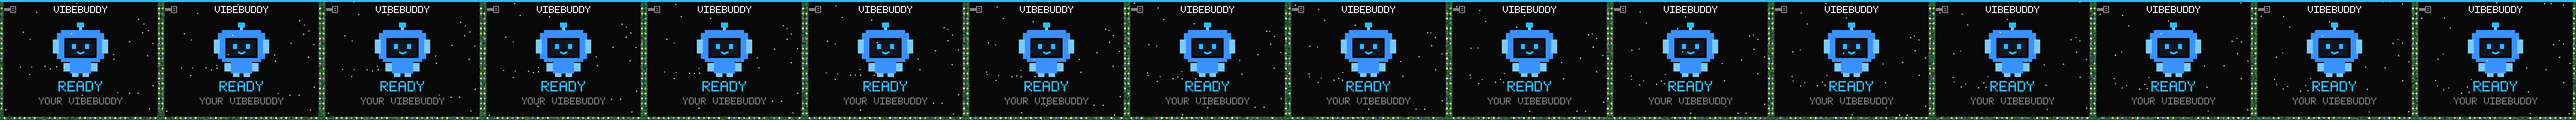
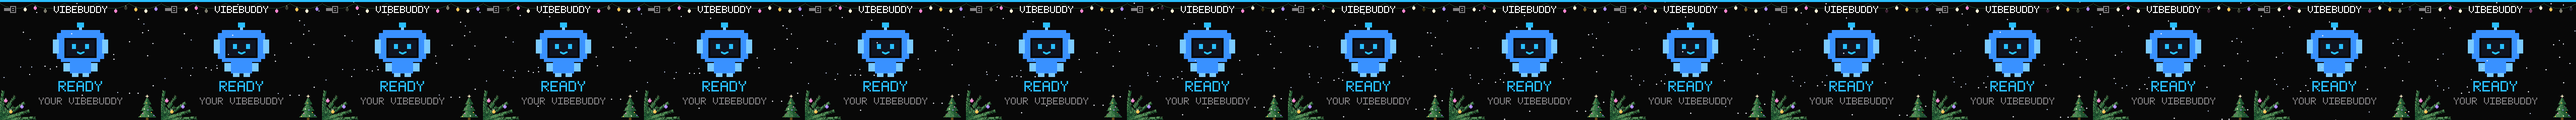
Christmas decoration: lights hang from the top, pine and a tree below
The garland round the edge sat against the state colour along the top
and broke wherever content came near the sides. Now:

- Strings of lights hang in swags just under the state colour, with
  bigger bulbs (6 x 7, with a socket and a shine while lit).
- Pine boughs with three baubles fan out of the bottom left corner.
- A small tree with a star and twinkling bulbs stands in the bottom
  right corner, on every screen.

The pine is drawn a pixel at a time, only on its corner's ground colour
and a pixel clear of anything else. So text, cards and key caps sit on
top of it with a pixel of ground around them, and the pine never fills
the inside of a card.

Changed region(s): [[0.0, 0.8167, 1.0, 1.0], [0.0, 0.0583, 1.0, 0.0875]]

diff --git a/firmware-rs/core/src/decoration.rs b/firmware-rs/core/src/decoration.rs
@@ -1,13 +1,15 @@
 //! Decorations (ADR-0022): a seasonal layer drawn over whichever box screens the box uses, after the screen and
 //! before the dimming, the menu and the tap outline. Only things that don't depend on the layout, so one drawing
 //! works on every set of screens. Each one is named for its holiday: Thanksgiving is falling leaves with an acorn
-//! here and there, and Christmas is lights on a pine garland down the sides and along the bottom with snow
-//! falling inside it. The garland leaves the top edge alone, where it would sit against the state colour.
+//! here and there, and Christmas is strings of lights hanging in swags across the top, pine boughs with baubles in
+//! the bottom left corner, a small tree in the bottom right, and snow falling.
 //!
 //! Every flake, leaf and bulb is a function of time alone, so a frame drawn at any moment is right and the
 //! screens' own animation pace doesn't matter. Nothing is drawn in the top rows, where both sets show the state
-//! colour, and nothing uses a state colour. A flake, leaf, acorn or bulb that would touch text, an edge or an icon isn't
-//! drawn in that frame, so it seems to pass behind it and the text stays whole, on any layout.
+//! colour, and nothing uses a state colour. A flake, leaf, acorn or bulb that would touch text, an edge or an icon
+//! isn't drawn in that frame, so it seems to pass behind it and the text stays whole, on any layout. The pine is
+//! drawn a pixel at a time on its corner's ground only, so text and cards sit on top of it with a pixel of ground
+//! around them.
 
 use crate::canvas::{Canvas, HEIGHT, WIDTH, half_bright};
 
@@ -90,20 +92,45 @@ const ACORN_NUT_COLOR: u16 = 0xd54d;
 /// the screens use for state.
 const BULB_COLORS: [u16; 4] = [0xff9a, 0xf60a, 0xff9a, 0xf60a];
 const BULB_ACCENTS: [u16; 2] = [0xf419, 0xac5f];
-/// The pine garland the bulbs hang on: a band this deep along each edge (under the state colour at the top), its
-/// needles dark, mid and light pine, its outer and inner rows ragged. Pine, far from the done green.
-const GARLAND: i32 = 7;
-const NEEDLES: [u16; 3] = [0x1a25, 0x2b27, 0x4c4a];
-/// The bulbs hang along the middle of the garland.
-const WIRE_INSET: i32 = GARLAND / 2;
-/// A bulb every this many pixels along the garland, 4 × 4 with its corners off, centred on it.
-const BULB_SPACING: i32 = 10;
-const BULB_SIZE: i32 = 4;
-/// More than there are bulbs around the screen.
-const MAX_BULBS: usize = 120;
+/// The light strings hang in swags from just under the state colour: a hook every `SWAG_PERIOD` pixels, sagging
+/// `SWAG_SAG` between them, on a wire of light pine.
+const SWAG_TOP: i32 = TOP + 2;
+const SWAG_PERIOD: i32 = 64;
+const SWAG_SAG: i32 = 10;
+/// A bulb every this many pixels across, hanging from a socket just under the wire: `BULB` is its shape, 6 wide.
+const BULB_SPACING: i32 = 20;
+const BULB_SIZE: i32 = 6;
+const BULB: [u8; 7] = [0b011110, 0b111111, 0b111111, 0b111111, 0b111111, 0b011110, 0b001100];
+/// More than there are bulbs across the screen.
+const MAX_BULBS: usize = 24;
 /// Each bulb steps through this many twinkle phases, one every `TWINKLE_MS`: dark in one, dim in one, lit in the rest.
 const TWINKLE_PHASES: u64 = 8;
 const TWINKLE_MS: u64 = 350;
+/// Pine boughs in the two bottom corners: needles from dark to light pine, far from the done green, on a dark
+/// brown twig. The lighter two are the upper side of a bough, where the light falls.
+const NEEDLES: [u16; 4] = [0x1a25, 0x2b27, 0x4c4a, 0x5c6b];
+const TWIG: u16 = 0x4163;
+/// The boughs of the bottom left corner, each from just off the corner to (x, y), with y up from the bottom edge.
+/// The right corner is the same, mirrored.
+const BOUGHS: [(i32, i32); 8] = [(70, 4), (58, 18), (40, 10), (48, 34), (26, 26), (30, 48), (10, 40), (6, 58)];
+/// The longest needles, at the base of a bough; they get shorter towards its tip.
+const NEEDLE_LENGTH: i32 = 6;
+/// Baubles hung in each corner's boughs, 7 × 7 and round, where (x, y) is their bottom left from the bottom left
+/// corner.
+const BAUBLES: [(i32, i32); 3] = [(18, 12), (40, 22), (8, 34)];
+const BAUBLE: [u8; 7] = [0b0011100, 0b0111110, 0b1111111, 0b1111111, 0b1111111, 0b0111110, 0b0011100];
+const BAUBLE_SIZE: i32 = 7;
+const BAUBLE_CAP: u16 = 0x8c71;
+/// A small Christmas tree in the bottom right corner: three tiers of pine over a brown trunk, a warm white star on
+/// top and bulbs on it. Its foliage is `TREE_FOLIAGE` rows high, its centre `TREE_INSET` from the right edge.
+const TREE_TIER: i32 = 13;
+const TREE_FOLIAGE: i32 = 3 * TREE_TIER;
+const TREE_TRUNK: i32 = 5;
+const TREE_INSET: i32 = 28;
+const TREE_STAR: i32 = 7;
+const TRUNK: u16 = 0x6243;
+/// Where the tree's bulbs are, from the top of the foliage and its centre line.
+const TREE_BULBS: [(i32, i32); 9] = [(9, -2), (17, 4), (21, -6), (23, 1), (28, 8), (30, -9), (35, 2), (34, 13), (36, -14)];
 
 /// A spread of bits from a flake's number, so flakes don't line up.
 fn mix(index: u32, salt: u32) -> u32 {
@@ -152,72 +179,210 @@ fn plain(canvas: &Canvas, x: i32, y: i32, width: i32, height: i32) -> bool {
     true
 }
 
-/// The line the bulbs hang along, down the middle of the garland: top and bottom rows, left and right columns.
-const WIRE_TOP: i32 = TOP + WIRE_INSET;
-const WIRE_BOTTOM: i32 = HEIGHT - 1 - WIRE_INSET;
-const WIRE_LEFT: i32 = WIRE_INSET;
-const WIRE_RIGHT: i32 = WIDTH - 1 - WIRE_INSET;
-
-/// The centres of the bulbs: down the right, along the bottom and up the left. None along the top, where they would
-/// sit against the state colour.
-fn bulbs() -> impl Iterator<Item = (i32, i32)> {
-    let across = (0..).map(|step| WIRE_LEFT + 6 + step * BULB_SPACING).take_while(|x| *x <= WIRE_RIGHT - 6);
-    let down = (1..).map(|step| WIRE_TOP + step * BULB_SPACING).take_while(|y| *y <= WIRE_BOTTOM - 6);
-    down.clone().map(|y| (WIRE_RIGHT, y)).chain(across.map(|x| (x, WIRE_BOTTOM))).chain(down.map(|y| (WIRE_LEFT, y)))
+/// How far down the light string is at `x`: at the hooks it is just under the state colour, and it sags between.
+fn swag_y(x: i32) -> i32 {
+    let u = 2 * (x.rem_euclid(SWAG_PERIOD)) - SWAG_PERIOD;
+    SWAG_TOP + SWAG_SAG - SWAG_SAG * u * u / (SWAG_PERIOD * SWAG_PERIOD)
 }
 
-/// One cross-section of the garland, `GARLAND` pixels from `(x, y)` one step of `(dx, dy)` at a time, from the edge
-/// inwards. It is left out where anything but plain ground is under it or right beside its inner edge, so text
-/// and icons near the edge stay whole.
-fn garland_slice(canvas: &mut Canvas, x: i32, y: i32, dx: i32, dy: i32, along: i32) {
-    let at = |step: i32| canvas.pixel(((y + dy * step) * WIDTH + x + dx * step) as usize);
-    let ground = at(0);
-    if (1..=GARLAND).any(|step| at(step) != ground) {
+/// The centres of the bulbs, each just under the wire.
+fn bulbs() -> impl Iterator<Item = (i32, i32)> {
+    (0..).map(|step| BULB_SPACING / 2 + step * BULB_SPACING).take_while(|x| *x < WIDTH - BULB_SIZE).map(|x| (x, swag_y(x) + 3))
+}
+
+/// The light string's wire, a pixel wide, left out where it would touch anything but plain ground.
+fn wire(canvas: &mut Canvas) {
+    for x in 0..WIDTH {
+        let y = swag_y(x);
+        if plain(canvas, x, y, 1, 1) {
+            dot(canvas, x, y, 1, 1, NEEDLES[2]);
+        }
+    }
+}
+
+fn pine(color: u16) -> bool {
+    color == TWIG || color == TRUNK || NEEDLES.contains(&color)
+}
+
+/// One pixel of pine, drawn only where it and the pixels around it are the corner's `ground` or pine already. So the
+/// pine grows behind text, cards and icons, and keeps a pixel of ground around them: text on the tree stays whole
+/// and readable, and the pine never fills the inside of a card or a key cap.
+fn needle_dot(canvas: &mut Canvas, ground: u16, x: i32, y: i32, color: u16) {
+    if !(0..WIDTH).contains(&x) || !(TOP..HEIGHT).contains(&y) {
         return;
     }
-    for depth in 0..GARLAND {
-        let bits = mix(along as u32 * 16 + depth as u32, 0x917e);
-        // Ragged at both edges, so it reads as needles rather than a stripe.
-        if (depth == 0 || depth == GARLAND - 1) && bits & 1 == 0 {
-            continue;
-        }
-        let color = NEEDLES[(bits >> 4) as usize % NEEDLES.len()];
-        dot(canvas, x + dx * depth, y + dy * depth, 1, 1, color);
+    if on_ground(canvas, ground, x, y, 1, 1) {
+        dot(canvas, x, y, 1, 1, color);
     }
 }
 
-/// Down both sides from just under the state colour, and along the bottom.
-fn garland(canvas: &mut Canvas) {
-    for x in 0..WIDTH {
-        garland_slice(canvas, x, HEIGHT - 1, 0, -1, x + WIDTH);
+/// Whether the box from (x, y), `width` by `height`, and a pixel around it, is all `ground` or pine.
+fn on_ground(canvas: &Canvas, ground: u16, x: i32, y: i32, width: i32, height: i32) -> bool {
+    for row in (y - 1).max(TOP)..(y + height + 1).min(HEIGHT) {
+        for column in (x - 1).max(0)..(x + width + 1).min(WIDTH) {
+            let color = canvas.pixel((row * WIDTH + column) as usize);
+            if color != ground && !pine(color) {
+                return false;
+            }
+        }
     }
-    for y in TOP..HEIGHT - GARLAND {
-        garland_slice(canvas, 0, y, 1, 0, y + 2 * WIDTH);
-        garland_slice(canvas, WIDTH - 1, y, -1, 0, y + 3 * WIDTH);
+    true
+}
+
+/// A straight line of pine from (x0, y0) to (x1, y1).
+fn needle_line(canvas: &mut Canvas, ground: u16, (x0, y0): (i32, i32), (x1, y1): (i32, i32), color: u16) {
+    let steps = (x1 - x0).abs().max((y1 - y0).abs()).max(1);
+    for step in 0..=steps {
+        needle_dot(canvas, ground, x0 + (x1 - x0) * step / steps, y0 + (y1 - y0) * step / steps, color);
+    }
+}
+
+/// The square root, rounded down, for a bough's length.
+fn root(value: i32) -> i32 {
+    let mut root = 0;
+    while (root + 1) * (root + 1) <= value {
+        root += 1;
+    }
+    root
+}
+
+/// The boughs and baubles of the bottom left corner, on its `ground`.
+fn corner(canvas: &mut Canvas, ground: u16) {
+    let place = |x: i32, y: i32| (x, HEIGHT - 1 - y);
+    let baubles = [BULB_COLORS[1], BULB_ACCENTS[1], BULB_ACCENTS[0]];
+    let origin = (-3, -2);
+    for (index, (end_x, end_y)) in BOUGHS.into_iter().enumerate() {
+        let (dx, dy) = (end_x - origin.0, end_y - origin.1);
+        let length = root(dx * dx + dy * dy);
+        // Along the bough and across it, in 1/256ths of a pixel.
+        let (ux, uy) = (dx * 256 / length, dy * 256 / length);
+        needle_line(canvas, ground, place(origin.0, origin.1), place(end_x, end_y), TWIG);
+        for along in 0..length {
+            let (x, y) = (origin.0 + dx * along / length, origin.1 + dy * along / length);
+            let reach = 3 + (NEEDLE_LENGTH - 3) * (length - along) / length;
+            for side in [-1, 1] {
+                let bits = mix(index as u32 * 512 + along as u32 * 2 + (side + 1) as u32 / 2, 0x917e);
+                if bits.is_multiple_of(5) {
+                    continue;
+                }
+                // Swept towards the tip, as pine needles grow.
+                let tip_x = x + (ux * 6 / 10 - side * uy) * reach / 256;
+                let tip_y = y + (uy * 6 / 10 + side * ux) * reach / 256;
+                // Lighter on the upper side, where the light falls.
+                let shade = if side * ux > 0 { 2 + (bits >> 3) as usize % 2 } else { (bits >> 3) as usize % 2 };
+                needle_line(canvas, ground, place(x, y), place(tip_x, tip_y), NEEDLES[shade]);
+            }
+        }
+    }
+    for ((x, y), color) in BAUBLES.into_iter().zip(baubles) {
+        let (left, top) = place(x, y + BAUBLE_SIZE);
+        let left = left.min(place(x + BAUBLE_SIZE - 1, y).0);
+        if !on_ground(canvas, ground, left, top - 2, BAUBLE_SIZE, BAUBLE_SIZE + 2) {
+            continue;
+        }
+        // The cap, a shine at the upper left, and the ball.
+        dot(canvas, left + 2, top - 2, 3, 2, BAUBLE_CAP);
+        for (row, line) in BAUBLE.iter().enumerate() {
+            for column in 0..BAUBLE_SIZE {
+                if line & (1 << (BAUBLE_SIZE - 1 - column)) != 0 {
+                    let shine = (row == 1 || row == 2) && column == 2;
+                    dot(canvas, left + column, top + row as i32, 1, 1, if shine { 0xffff } else { color });
+                }
+            }
+        }
+    }
+}
+
+/// How far the tree's foliage reaches either side of its centre, `row` rows from its top: each tier starts narrow
+/// and spreads, and each is wider than the one above.
+fn tree_reach(row: i32) -> i32 {
+    let tier = row / TREE_TIER;
+    let local = row % TREE_TIER;
+    2 + tier * 3 + local * (6 + tier * 2) / (TREE_TIER - 1)
+}
+
+/// The tree in the bottom right corner, on its `ground`.
+fn tree(canvas: &mut Canvas, ground: u16, t_ms: u64) {
+    let centre = WIDTH - TREE_INSET;
+    let top = HEIGHT - TREE_TRUNK - TREE_FOLIAGE;
+    for row in 0..TREE_FOLIAGE {
+        let reach = tree_reach(row);
+        for offset in -reach..=reach {
+            let bits = mix((row * 64 + offset + 32) as u32, 0x7ee5);
+            // Ragged at the edges, so it reads as needles.
+            if offset.abs() == reach && bits & 1 == 0 {
+                continue;
+            }
+            // Lighter on the left, where the light falls, darker on the right and along the bottom of each tier.
+            let light = if row % TREE_TIER == TREE_TIER - 1 {
+                0
+            } else if offset < -reach / 3 {
+                2
+            } else if offset < reach / 3 {
+                1
+            } else {
+                0
+            };
+            let shade = (light + (bits >> 3) as usize % 2).min(NEEDLES.len() - 1);
+            needle_dot(canvas, ground, centre + offset, top + row, NEEDLES[shade]);
+        }
+    }
+    for row in 0..TREE_TRUNK {
+        needle_line(canvas, ground, (centre - 2, top + TREE_FOLIAGE + row), (centre + 2, top + TREE_FOLIAGE + row), TRUNK);
+    }
+    // The star, on the top: a plus with a fuller middle and a gold heart. It and the bulbs are left out where they
+    // would touch anything but the ground and the tree.
+    let star = top - TREE_STAR;
+    let middle = star + TREE_STAR / 2;
+    if on_ground(canvas, ground, centre - TREE_STAR / 2, star, TREE_STAR, TREE_STAR) {
+        dot(canvas, centre, star, 1, TREE_STAR, BULB_COLORS[0]);
+        dot(canvas, centre - TREE_STAR / 2, middle, TREE_STAR, 1, BULB_COLORS[0]);
+        dot(canvas, centre - 1, middle - 1, 3, 3, BULB_COLORS[0]);
+        dot(canvas, centre, middle, 1, 1, BULB_COLORS[1]);
+    }
+    for (index, (row, offset)) in TREE_BULBS.into_iter().enumerate() {
+        let lit = [BULB_COLORS[1], BULB_ACCENTS[0], BULB_COLORS[0], BULB_ACCENTS[1]][index % 4];
+        let color = if (t_ms / TWINKLE_MS + mix(index as u32, 0x7b01) as u64).is_multiple_of(3) { half_bright(lit) } else { lit };
+        if on_ground(canvas, ground, centre + offset, top + row, 2, 2) {
+            dot(canvas, centre + offset, top + row, 2, 2, color);
+        }
     }
 }
 
 fn lights(canvas: &mut Canvas, t_ms: u64) {
-    // Which bulbs have room, judged on the screen before the garland goes on.
+    // Which bulbs have room, judged on the screen before anything goes on.
     let mut room = [false; MAX_BULBS];
     for (index, (x, y)) in bulbs().enumerate().take(MAX_BULBS) {
-        room[index] = plain(canvas, x - BULB_SIZE / 2, y - BULB_SIZE / 2, BULB_SIZE, BULB_SIZE);
+        room[index] = plain(canvas, x - BULB_SIZE / 2, y - 2, BULB_SIZE, BULB.len() as i32 + 2);
     }
-    garland(canvas);
+    // Each corner's ground is the screen's colour a pixel in from it.
+    let left_ground = canvas.pixel(((HEIGHT - 2) * WIDTH + 1) as usize);
+    let right_ground = canvas.pixel(((HEIGHT - 2) * WIDTH + WIDTH - 2) as usize);
+    corner(canvas, left_ground);
+    tree(canvas, right_ground, t_ms);
+    wire(canvas);
     for (index, (x, y)) in bulbs().enumerate().take(MAX_BULBS) {
         if !room[index] {
             continue;
         }
-        let color = if index % 4 == 3 { BULB_ACCENTS[(index / 4) % BULB_ACCENTS.len()] } else { BULB_COLORS[index % BULB_COLORS.len()] };
-        // Off is a dark bulb still on the garland; dim is half way.
+        let lit = if index % 4 == 3 { BULB_ACCENTS[(index / 4) % BULB_ACCENTS.len()] } else { BULB_COLORS[index % BULB_COLORS.len()] };
+        // Off is a dark bulb still on the string; dim is half way.
         let color = match (t_ms / TWINKLE_MS + mix(index as u32, 0x11e5) as u64) % TWINKLE_PHASES {
-            0 => half_bright(half_bright(color)),
-            1 => half_bright(color),
-            _ => color,
+            0 => half_bright(half_bright(lit)),
+            1 => half_bright(lit),
+            _ => lit,
         };
-        let (left, top) = (x - BULB_SIZE / 2, y - BULB_SIZE / 2);
-        dot(canvas, left + 1, top, BULB_SIZE - 2, BULB_SIZE, color);
-        dot(canvas, left, top + 1, BULB_SIZE, BULB_SIZE - 2, color);
+        // `y` is the bulb's top: the socket above it, then the bulb with a shine while it is lit.
+        let left = x - BULB_SIZE / 2;
+        dot(canvas, left + 2, y - 2, 2, 2, BAUBLE_CAP);
+        for (row, line) in BULB.iter().enumerate() {
+            for column in 0..BULB_SIZE {
+                if line & (1 << (BULB_SIZE - 1 - column)) != 0 {
+                    let shine = row == 1 && column == 1 && color == lit;
+                    dot(canvas, left + column, y + row as i32, 1, 1, if shine { 0xffff } else { color });
+                }
+            }
+        }
     }
 }
 
@@ -285,7 +450,7 @@ pub fn draw(canvas: &mut Canvas, decoration: Decoration, t_ms: u32) {
     match decoration {
         Decoration::Off => {}
         Decoration::Thanksgiving => leaves(canvas, t_ms),
-        // The garland first, so the snow falls behind it: a flake only lands on plain ground.
+        // The lights and boughs first, so the snow falls behind them: a flake only lands on plain ground.
         Decoration::Christmas => {
             lights(canvas, t_ms);
             snow(canvas, t_ms);
@@ -339,7 +504,7 @@ mod tests {
     }
 
     #[test]
-    fn christmas_has_snow_inside_the_garland_and_thanksgiving_has_acorns_among_the_leaves() {
+    fn christmas_has_lights_boughs_and_snow_and_thanksgiving_has_acorns_among_the_leaves() {
         // Whether `color` is anywhere at least `inside` pixels in from the edges, under the state colour's rows.
         let has = |frame: &[u8], color: u16, inside: i32| {
             (TOP + inside..HEIGHT - inside).any(|y| {
@@ -350,8 +515,9 @@ mod tests {
             })
         };
         let christmas = drawn(Decoration::Christmas, 61_000);
-        assert!(has(&christmas, NEEDLES[0], 0) || has(&christmas, NEEDLES[1], 0), "the garland is there");
-        assert!(has(&christmas, SNOW, GARLAND) || has(&christmas, SNOW_SHADE, GARLAND), "and snow falls inside it");
+        assert!(has(&christmas, NEEDLES[0], 0) || has(&christmas, NEEDLES[1], 0), "the boughs are there");
+        assert!(has(&christmas, BULB_COLORS[0], 0) || has(&christmas, BULB_COLORS[1], 0), "and the lights");
+        assert!(has(&christmas, SNOW, 0) || has(&christmas, SNOW_SHADE, 0), "and the snow");
         let thanksgiving = drawn(Decoration::Thanksgiving, 61_000);
         assert!(has(&thanksgiving, ACORN_CAP_COLOR, 0), "an acorn falls among the leaves");
     }

diff --git a/docs/adr/0022-decorations-are-one-overlay-for-every-set-of-box-screens.md b/docs/adr/0022-decorations-are-one-overlay-for-every-set-of-box-screens.md
@@ -8,9 +8,9 @@ On 2026-11-04 Michael asked for holiday themes the App writes to the box: backgr
 
 So a decoration is a third thing beside the Character and the box screens, and it uses only what doesn't depend on the layout:
 
-- **Kinds.** Things that fall or drift over the whole screen (snow, leaves) and things that run along its edges (lights on a pine garland). Nothing that sits at a place a layout gives meaning to: no hats on the buddy, no new backgrounds, no recoloured cards.
+- **Kinds.** Things that fall or drift over the whole screen (snow, leaves) things that hang along its top edge (strings of lights), and things that grow from its bottom corners (pine boughs, a small tree). Nothing that sits at a place a layout gives meaning to: no hats on the buddy, no new backgrounds, no recoloured cards.
 - **One drawing for every set of box screens.** The box draws the decoration over the finished 320×240 frame, whichever set drew it, before the night dimming, the menu and the tap outline (`decoration.rs`). Both sets render a full frame and flush it whole (`canvas.rs`, `lcd.rs`), so there is one place to add it. A new set of box screens gets every decoration for free.
-- **It never hides what the screen means.** It leaves the top 4 rows alone, where both sets draw the state colour (4 rows on the robot screens, 3 on korekore). It doesn't use the state colours (ready blue, working orange, needs input yellow, done green, failed red) as a main colour, since korekore fills the whole screen with some of them: Christmas lights are warm white and gold with every fourth bulb pink or violet, not red and green bulbs, on a garland of dark pine greens far from the done green. A flake, leaf, acorn, bulb or stretch of garland that would touch anything but plain ground (text, an edge, an icon) isn't drawn in that frame, so it seems to pass behind it and text stays whole; this looks at the pixels, not at either layout. While the box needs input, it stops moving, so the only motion on the screen is the buddy asking.
+- **It never hides what the screen means.** It leaves the top 4 rows alone, where both sets draw the state colour (4 rows on the robot screens, 3 on korekore). It doesn't use the state colours (ready blue, working orange, needs input yellow, done green, failed red) as a main colour, since korekore fills the whole screen with some of them: Christmas lights are warm white and gold with every fourth bulb pink or violet, not red and green bulbs, and the pine is dark pine greens far from the done green. A flake, leaf, acorn or bulb that would touch anything but plain ground (text, an edge, an icon) isn't drawn in that frame, so it seems to pass behind it and text stays whole. The pine is drawn a pixel at a time, only on its corner's ground colour and a pixel clear of anything else, so text, cards and key caps sit on top of it with a pixel of ground around them, and it never fills the inside of a card. Both look at the pixels, not at either layout. While the box needs input, it stops moving, so the only motion on the screen is the buddy asking.
 - **In the firmware, picked by a command.** Like the box screens, each decoration is compiled in and switched over the link, and the box keeps the choice across restarts. Off is the default. Turning one on doesn't write the Character pack or flash anything.
 - **Named for a holiday, but not tied to a Character or a date.** Pip with no Christmas decoration and the robot with one are both fine. The App doesn't turn a decoration on by the calendar; the user picks it, as with a Character.
 
@@ -26,5 +26,5 @@ So a decoration is a third thing beside the Character and the box screens, and i
 - The firmware gets a decoration step after each set's frame, a `device.decoration` command and a `DECORATION` line, the way `device.screens` works (docs/protocol.md). The settings record has no free word, so the decoration takes the second byte of the screens word; firmware from before it reads a decorated korekore record as the robot's, which only matters after a rollback. The robot and korekore pixels stay the same with the decoration off. `cargo run -p vibebuddy-firmware-core --example decoration_preview -- <dir>` draws each decoration on both sets.
 - A moving decoration redraws the frame every 150 ms between the screens' own frames, without speeding up the buddy's animation. The rate is checked on the box. It holds still while the menu is up, while the box needs input, and while the screen is dimmed for the night.
 - The Mac app and the Linux app both get a decoration strip on the Character page, right under the volume so a long list of Characters doesn't push it out of sight: one preview, playing frames the firmware itself drew (`tools/decoration-previews.sh` into `decorations/`, so the apps never redraw a decoration of their own), and a button for each decoration. It is off while the box is away or runs firmware that doesn't report a decoration, with zh-Hans strings on both sides. It was first on the Device page, beside the box screens; on 2026-11-05 it moved, since people look for a holiday look where they pick the Character.
-- The first decorations are Thanksgiving (falling autumn leaves with an acorn here and there, for 2026-11-26) and Christmas (lights on the pine garland, with snow falling inside it). Both ship in one firmware release and one App release about a week before Thanksgiving, and that App release also carries Tom and Pip.
-- On 2026-11-06, before any of it shipped, the three decorations Leaves, Snow and Lights became these two, one for each holiday: people pick a holiday, not an effect, and lights alone were for December only. The Christmas one draws the garland first, so a flake falls behind it, and the garland no longer runs along the top edge: there it sat right against the state colour and read as part of it. Thanksgiving got acorns rather than pumpkins: acorns fall, and a pumpkin's orange is too near the working orange. Snow on its own for the rest of the winter is gone for now. Holidays differ by country: Thanksgiving means little outside the US and Canada, so other holidays, such as Lunar New Year, come as decorations of their own. The settings record keeps codes 1 and 2 for the two; 3, which only test boxes stored, reads as off.
+- The first decorations are Thanksgiving (falling autumn leaves with an acorn here and there, for 2026-11-26) and Christmas (strings of lights hanging in swags across the top, pine boughs with baubles in the bottom left corner, a small tree with a star in the bottom right, and falling snow). Both ship in one firmware release and one App release about a week before Thanksgiving, and that App release also carries Tom and Pip.
+- On 2026-11-06, before any of it shipped, the three decorations Leaves, Snow and Lights became these two, one for each holiday: people pick a holiday, not an effect, and lights alone were for December only. The Christmas one first had a pine garland with lights round the edge of the screen. Along the top it sat right against the state colour and read as part of it, and down the sides it broke wherever a screen's content came near the edge. So the lights now hang in swags under the state colour, and the pine is in the bottom corners, where the screens have the most room. The tree is drawn on every screen, with text on top of it, rather than only where it has room: a decoration that comes and goes from one screen to the next looked less like one design. Everything is drawn before the snow, so a flake falls behind it. Thanksgiving got acorns rather than pumpkins: acorns fall, and a pumpkin's orange is too near the working orange. Snow on its own for the rest of the winter is gone for now. Holidays differ by country: Thanksgiving means little outside the US and Canada, so other holidays, such as Lunar New Year, come as decorations of their own. The settings record keeps codes 1 and 2 for the two; 3, which only test boxes stored, reads as off.

diff --git a/CONTEXT.md b/CONTEXT.md
@@ -105,7 +105,7 @@ The set of screens the box draws everything with: the robot screens (the default
 _Avoid_: theme, skin, style on its own (界面风格 is fine in talk, but the UI says box screens)
 
 **Decoration (装饰)**:
-A seasonal layer the box draws over whichever box screens it uses, one for each holiday: falling leaves and acorns for Thanksgiving, lights on a pine garland down the sides and along the bottom of the screen with snow falling inside it for Christmas. It uses only things that don't depend on the layout, so one decoration is designed once and works on every set of screens. It is separate from the Character: a decoration doesn't come with one, and a Character doesn't bring one. It never hides or changes what the screen means (ADR-0022).
+A seasonal layer the box draws over whichever box screens it uses, one for each holiday: falling leaves and acorns for Thanksgiving, strings of lights hanging across the top, pine boughs in the bottom left corner, a small tree in the bottom right and falling snow for Christmas. It uses only things that don't depend on the layout, so one decoration is designed once and works on every set of screens. It is separate from the Character: a decoration doesn't come with one, and a Character doesn't bring one. It never hides or changes what the screen means (ADR-0022).
 _Avoid_: theme, holiday skin, background (it is drawn over the screens, not under them)
 
 **Character pack (角色包)**:
